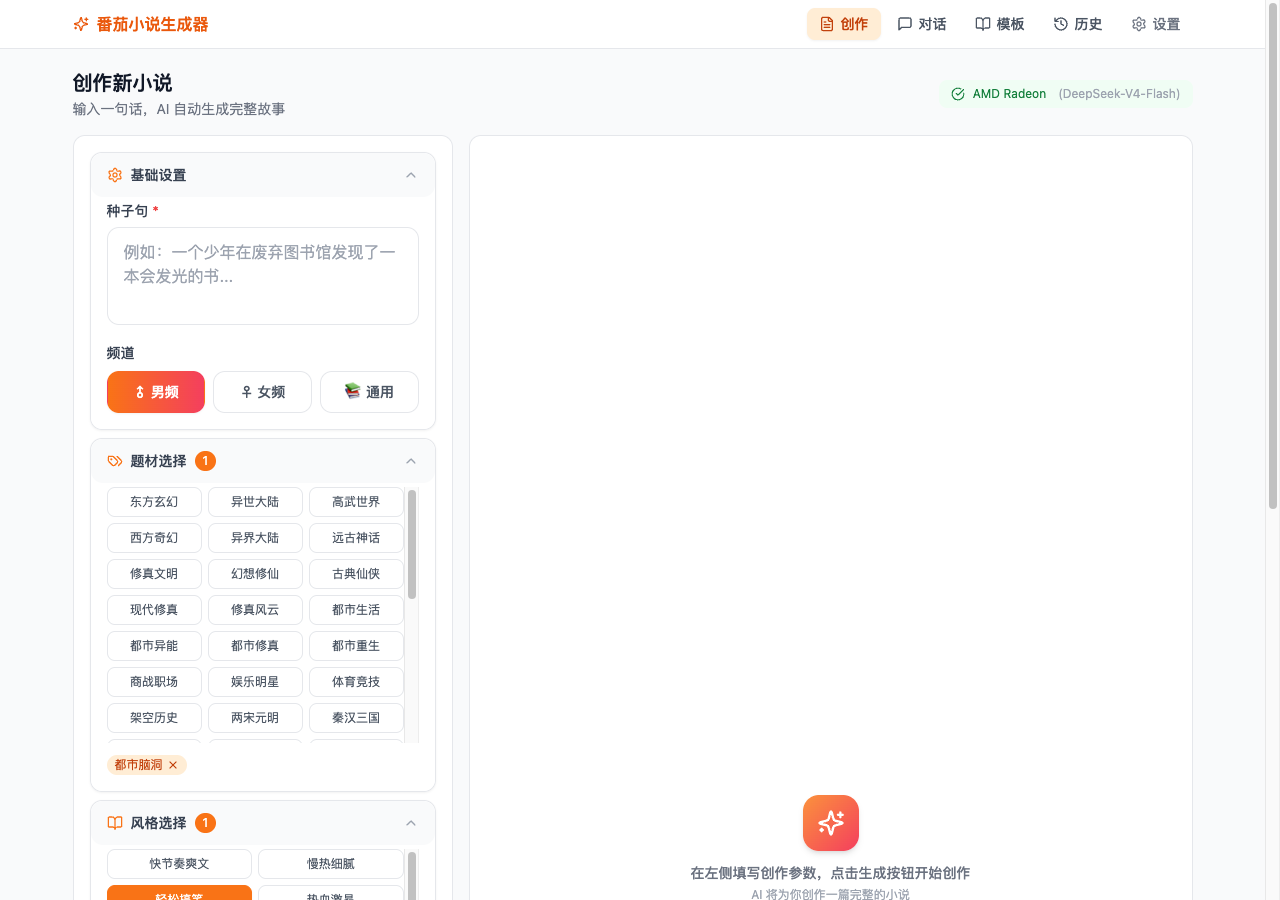
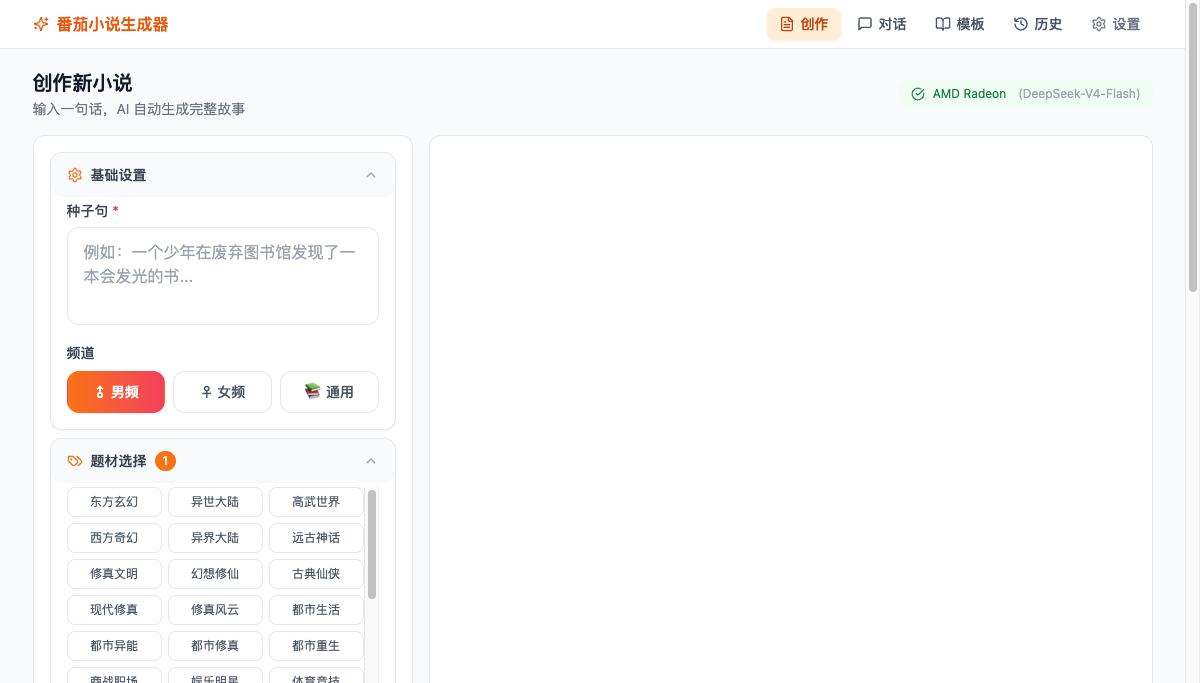
feat: V1 错误处理优化 + UI布局修复
修复内容:
- LLM 错误时流水线立即停止（不再静默继续）
- 后端 _timeout_iterate 所有异常都终止流水线
- 后端 _call_with_retry 重试后仍失败则直接抛出
- 前端停止 '正在生成...' 指示器（设置 streaming: false）
- 错误状态显示失败步骤（红色 ✕ 标记）
- 修复创作页面左右面板高度不一致问题

新增功能:
- updateLastMessageFull 支持更新消息所有属性
- NovelStatusPanel 显示错误提示框和失败步骤
- README.md / AGENTS.md 更新版本记录

diff --git a/novel-build-system/v1/frontend/src/components/NovelStatusPanel.jsx b/novel-build-system/v1/frontend/src/components/NovelStatusPanel.jsx
@@ -20,8 +20,10 @@ export default function NovelStatusPanel({ novelData }) {
     )
   }
 
-  const { step, chapters, chapterTexts, outline, totalWords, seedText, gender, genre, style, lastLog } = novelData
-  const stepIdx = STEP_CONFIG.findIndex(s => s.key === step)
+  const { step, chapters, chapterTexts, outline, totalWords, seedText, gender, genre, style, lastLog, failedStep } = novelData
+  const isError = step === 'error'
+  const failedStepIdx = isError && failedStep ? STEP_CONFIG.findIndex(s => s.key === failedStep) : -1
+  const stepIdx = isError ? -1 : STEP_CONFIG.findIndex(s => s.key === step)
   const completedChapters = (chapterTexts || []).filter(t => t && t.trim().length > 50).length
   const totalChapters = (chapters || []).length
   const writing = step === 'writing'
@@ -46,29 +48,39 @@ export default function NovelStatusPanel({ novelData }) {
       {/* 当前步骤 */}
       <div>
         <h3 className="text-xs font-semibold text-gray-400 uppercase tracking-wider mb-3">生成步骤</h3>
+        {isError && (
+          <div className="p-3 bg-red-50 border border-red-200 rounded-xl mb-3">
+            <p className="text-xs text-red-600 font-medium">⚠ 生成已中断</p>
+            <p className="text-xs text-red-500 mt-1 break-words">{novelData.errorMessage || '请检查错误信息后重试'}</p>
+          </div>
+        )}
         <div className="space-y-1.5">
           {STEP_CONFIG.map((s, i) => {
-            const isActive = i === stepIdx
+            const isActive = !isError && i === stepIdx
+            const isFailed = isError && i === failedStepIdx
             const isPast = i < stepIdx
             return (
               <div key={s.key} className={cn(
                 'flex items-center gap-3 p-2 rounded-lg transition-colors',
                 isActive && 'bg-orange-50',
+                isFailed && 'bg-red-50',
                 isPast && 'bg-green-50/50'
               )}>
                 <span className={cn(
                   'w-5 h-5 rounded-full flex items-center justify-center text-[10px] font-bold flex-shrink-0',
                   isPast && 'bg-green-500 text-white',
                   isActive && 'bg-orange-500 text-white',
-                  !isPast && !isActive && 'bg-gray-200 text-gray-400',
+                  isFailed && 'bg-red-500 text-white',
+                  !isPast && !isActive && !isFailed && 'bg-gray-200 text-gray-400',
                 )}>
-                  {isPast ? '✓' : i + 1}
+                  {isPast ? '✓' : isFailed ? '✕' : i + 1}
                 </span>
                 <span className={cn(
                   'text-xs flex-1',
                   isActive && 'text-orange-700 font-semibold',
+                  isFailed && 'text-red-700 font-semibold',
                   isPast && 'text-green-700',
-                  !isPast && !isActive && 'text-gray-400',
+                  !isPast && !isActive && !isFailed && 'text-gray-400',
                 )}>
                   {s.label}
                 </span>
@@ -93,7 +105,7 @@ export default function NovelStatusPanel({ novelData }) {
           <div className="flex flex-wrap gap-1.5">
             {chapters.map((ch, i) => {
               const done = (chapterTexts[i] || '').trim().length > 50
-              const isActive = writing && i === completedChapters
+              const isActive = !isError && writing && i === completedChapters
               return (
                 <span key={i} className={cn(
                   'w-7 h-7 rounded-lg flex items-center justify-center text-xs font-bold',

diff --git a/novel-build-system/v1/frontend/src/pages/ChatPage.jsx b/novel-build-system/v1/frontend/src/pages/ChatPage.jsx
@@ -12,7 +12,7 @@ export default function ChatPage() {
   const navigate = useNavigate()
   const {
     messages, generating, novelData,
-    addMessage, updateLastMessage, setGenerating,
+    addMessage, updateLastMessage, updateLastMessageFull, setGenerating,
     setCurrentStep, setNovelData, updateNovelData,
     setCurrentRecordId, setAbortController, reset,
   } = useChatStore()
@@ -134,9 +134,11 @@ export default function ChatPage() {
           const title = data?.title || '未命名小说'
           const totalWords = data?.total_words || 0
           setCurrentStep('done')
-          updateLastMessage(
-            `🎉 **《${title}》生成完成！**\n\n总字数：${totalWords.toLocaleString()}字\n点击下方按钮查看详情。`
-          )
+          // 关键：将最后一条消息的 streaming 设为 false，停止 "正在生成..." 指示器
+          updateLastMessageFull({
+            streaming: false,
+            content: `🎉 **《${title}》生成完成！**\n\n总字数：${totalWords.toLocaleString()}字\n点击下方按钮查看详情。`,
+          })
           updateNovelData({ step: 'done', totalWords, novelId })
           setGenerating(false)
           break
@@ -152,10 +154,23 @@ export default function ChatPage() {
           }
           break
         }
-        case 'error':
-          updateLastMessage('❌ **生成出错**：' + (data?.message || '未知错误'))
+        case 'error': {
+          const currentState = useChatStore.getState()
+          const errorMsg = data?.message || '未知错误'
+          // 关键：将最后一条消息的 streaming 设为 false，停止 "正在生成..." 指示器
+          updateLastMessageFull({
+            streaming: false,
+            content: '❌ **生成出错**：' + errorMsg,
+          })
+          setCurrentStep('error')
+          updateNovelData({
+            step: 'error',
+            failedStep: currentState.currentStep || null,
+            errorMessage: errorMsg,
+          })
           setGenerating(false)
           break
+        }
       }
     }
 
@@ -164,7 +179,18 @@ export default function ChatPage() {
     }
 
     const onError = (msg) => {
-      updateLastMessage('❌ **错误**：' + msg)
+      const currentState = useChatStore.getState()
+      // 关键：将最后一条消息的 streaming 设为 false，停止 "正在生成..." 指示器
+      updateLastMessageFull({
+        streaming: false,
+        content: '❌ **错误**：' + msg,
+      })
+      setCurrentStep('error')
+      updateNovelData({
+        step: 'error',
+        failedStep: currentState.currentStep || null,
+        errorMessage: msg,
+      })
       setGenerating(false)
     }
 
@@ -189,7 +215,11 @@ export default function ChatPage() {
       ctrl.abort()
       setAbortController(null)
     }
-    updateLastMessage('⏹ **生成已停止**（已生成内容已保存）')
+    // 关键：将最后一条消息的 streaming 设为 false，停止 "正在生成..." 指示器
+    updateLastMessageFull({
+      streaming: false,
+      content: '⏹ **生成已停止**（已生成内容已保存）',
+    })
     setGenerating(false)
     setShowStopConfirm(false)
   }

diff --git a/novel-build-system/v1/frontend/src/pages/CreatePage.jsx b/novel-build-system/v1/frontend/src/pages/CreatePage.jsx
@@ -334,18 +334,18 @@ export default function CreatePage() {
         <ConfigStatus />
       </div>
 
-      {/* 主内容区 - 左右布局，各自自适应高度 */}
-      <div className="flex gap-4 items-start">
+      {/* 主内容区 - 左右布局，高度由内容决定 */}
+      <div className="flex gap-4">
         {/* 左侧：创作参数表单 — 内容决定高度 */}
-        <div className="w-[380px] flex-shrink-0 bg-white rounded-xl border border-gray-200 p-4 self-stretch">
+        <div className="w-[380px] flex-shrink-0 bg-white rounded-xl border border-gray-200 p-4">
           <NovelForm onGenerate={handleGenerate} />
         </div>
 
-        {/* 右侧：状态/进度区域 — 撑满与左侧等高 */}
-        <div className="flex-1 min-w-0 bg-white rounded-xl border border-gray-200 p-5 self-stretch">
+        {/* 右侧：状态/进度区域 — 与左侧等高 */}
+        <div className="flex-1 min-w-0 bg-white rounded-xl border border-gray-200 p-5">
           {/* 空状态占位 - 紧凑展示 */}
           {!showToc && !showContentPlaceholder && (
-            <div className="flex flex-col items-center justify-center h-full min-h-[400px]">
+            <div className="flex flex-col items-center justify-center h-full min-h-[200px]">
               <div className="w-14 h-14 rounded-2xl bg-gradient-to-br from-orange-400 to-rose-500 flex items-center justify-center mb-3 shadow-md">
                 <Sparkles className="w-7 h-7 text-white" />
               </div>

diff --git a/novel-build-system/v1/frontend/src/stores/novelStore.js b/novel-build-system/v1/frontend/src/stores/novelStore.js
@@ -59,6 +59,7 @@ export const useNovelStore = create((set) => ({
   thinkingLogs: [],
   outlineThinking: [],
   errorMessage: '',
+  failedStep: null,
 
   configChecked: false,
   configOk: false,
@@ -136,7 +137,12 @@ export const useNovelStore = create((set) => ({
   setGenerationNovelId: (id) => set({ generationNovelId: id }),
 
   setError: (msg) =>
-    set({ generating: false, currentStep: STEPS.ERROR, errorMessage: msg }),
+    set((state) => ({
+      generating: false,
+      currentStep: STEPS.ERROR,
+      errorMessage: msg,
+      failedStep: state.currentStep,
+    })),
 
   finishGeneration: () => set({ generating: false, currentStep: STEPS.DONE }),
 
@@ -145,7 +151,8 @@ export const useNovelStore = create((set) => ({
       generating: false, currentStep: STEPS.IDLE, currentContent: '',
       currentTitle: '', chapters: [], chapterTexts: [],
       eventLog: [], thinkingLogs: [], outlineThinking: [],
-      errorMessage: '', currentRecordId: null, continueRecordId: null,
+      errorMessage: '', failedStep: null,
+      currentRecordId: null, continueRecordId: null,
       generationNovelId: null, abortController: null,
     }),
 }))

diff --git a/novel-build-system/v1/frontend/src/stores/chatStore.js b/novel-build-system/v1/frontend/src/stores/chatStore.js
@@ -23,6 +23,14 @@ export const useChatStore = create((set) => ({
       }
       return { messages: msgs }
     }),
+  updateLastMessageFull: (updates) =>
+    set((state) => {
+      const msgs = [...state.messages]
+      if (msgs.length > 0) {
+        msgs[msgs.length - 1] = { ...msgs[msgs.length - 1], ...updates }
+      }
+      return { messages: msgs }
+    }),
   setGenerating: (val) => set({ generating: val }),
   setCurrentStep: (step) => set({ currentStep: step }),
   setNovelData: (data) => set({ novelData: data }),

diff --git a/novel-build-system/v1/backend/app/services/generator.py b/novel-build-system/v1/backend/app/services/generator.py
@@ -71,16 +71,16 @@ async def _timeout_iterate(
             break
         except Exception as e:
             error_str = str(e)
-            # 检测速率限制错误（429）
+            _log(f"❌ 流式迭代异常: {e}")
+            # 所有异常都应终止流水线，避免继续执行后续步骤
             if (
                 "429" in error_str
                 or "rate limit" in error_str.lower()
                 or "FreeUsageLimitError" in error_str
             ):
-                _log(f"❌ 速率限制错误: {e}")
                 raise RuntimeError(f"API速率限制，请稍后再试: {e}")
-            _log(f"⚠ 流式迭代异常: {e}")
-            break
+            # 其他错误（如 provider 错误、超时等）也应停止生成
+            raise RuntimeError(f"生成失败: {e}")
 
 
 def _ensure_novel_folder(title: str) -> str:
@@ -531,6 +531,7 @@ class GeneratorService:
     async def _call_with_retry(self, prompt: str, label: str, retries: int = 2) -> str:
         """带重试的流式调用，返回完整文本"""
         text = ""
+        last_error = None
         for attempt in range(retries):
             text = ""
             try:
@@ -543,15 +544,24 @@ class GeneratorService:
                 if text.strip():
                     return text
             except RuntimeError as e:
-                if any(kw in str(e) for kw in ("速率限制", "429", "rate limit")):
+                last_error = e
+                _log(f"⚠ {label}异常: {e}（第{attempt + 1}次）")
+                # 重试一次后仍失败则直接抛出
+                if attempt == retries - 1:
                     raise
-                _log(f"⚠ {label}异常: {e}（第{attempt + 1}次）")
             except Exception as e:
+                last_error = e
                 _log(f"⚠ {label}异常: {e}（第{attempt + 1}次）")
+                # 重试一次后仍失败则直接抛出
+                if attempt == retries - 1:
+                    raise RuntimeError(f"生成失败: {e}")
             if attempt == 0:
                 _log(f"🔄 {label}重试...")
                 await asyncio.sleep(1)
-        return text
+        # 如果所有重试都失败且没有异常被抛出，返回文本或抛出错误
+        if text.strip():
+            return text
+        raise last_error or RuntimeError(f"{label}生成失败")
 
     async def _step_finalize(self, ctx: dict) -> AsyncGenerator[dict, None]:
         """Step 4: 标题生成 + 持久化 + 完成"""

diff --git a/novel-build-system/v1/AGENTS.md b/novel-build-system/v1/AGENTS.md
@@ -66,6 +66,15 @@ LLM Provider 调用可能因 API 不可达而挂死。GeneratorService 有三层
 2. **`_call_llm(timeout=120)`** — 收集式调用（parse/outline/title）设 120s 总超时，超时返回空字符串（走 fallback）
 3. **`_timeout_iterate(agen, timeout=120)`** — 流式逐章写作时每块间 120s 超时，防止卡在单次 chunk
 
+## 错误处理流程
+
+当 LLM 返回错误（如 429 速率限制、provider 错误）时，流水线立即停止：
+
+1. **`_timeout_iterate`** — 捕获所有异常，抛出 `RuntimeError` 终止流水线
+2. **`_call_with_retry`** — 重试一次后仍失败则直接抛出异常
+3. **`generate()` 主流程** — 捕获异常，yield `error` 事件
+4. **前端处理** — `updateLastMessageFull({ streaming: false })` 停止 "正在生成..." 指示器，显示错误状态
+
 ## SSE 事件流
 
 `event: xxx\ndata: {...}\n\n` 格式。

diff --git a/novel-build-system/v1/README.md b/novel-build-system/v1/README.md
@@ -214,6 +214,20 @@ DeepSeek / Qwen / GLM / Kimi / 豆包 / 文心 / MiniMax / 百川 / 混元 / 零
 
 ## 版本历史
 
+### v1.6.0 (2026-08-31)
+
+**Bug 修复:**
+- 修复 LLM 错误（如 429 速率限制）时流水线未立即停止的问题
+- 后端 `_timeout_iterate` 所有异常都终止流水线，不再静默继续
+- 后端 `_call_with_retry` 重试后仍失败则直接抛出异常
+- 前端错误处理：停止 "正在生成..." 指示器，显示失败步骤
+- 修复创作页面左右面板高度不一致的问题
+
+**新增功能:**
+- 错误状态显示：右侧面板显示红色错误提示框和失败的具体步骤
+- `updateLastMessageFull` 函数支持更新消息的 `streaming` 属性
+- NovelStatusPanel 新增 `failedStep` 字段追踪失败步骤
+
 ### v1.5.1 (2026-08-30)
 
 **Bug 修复:**
